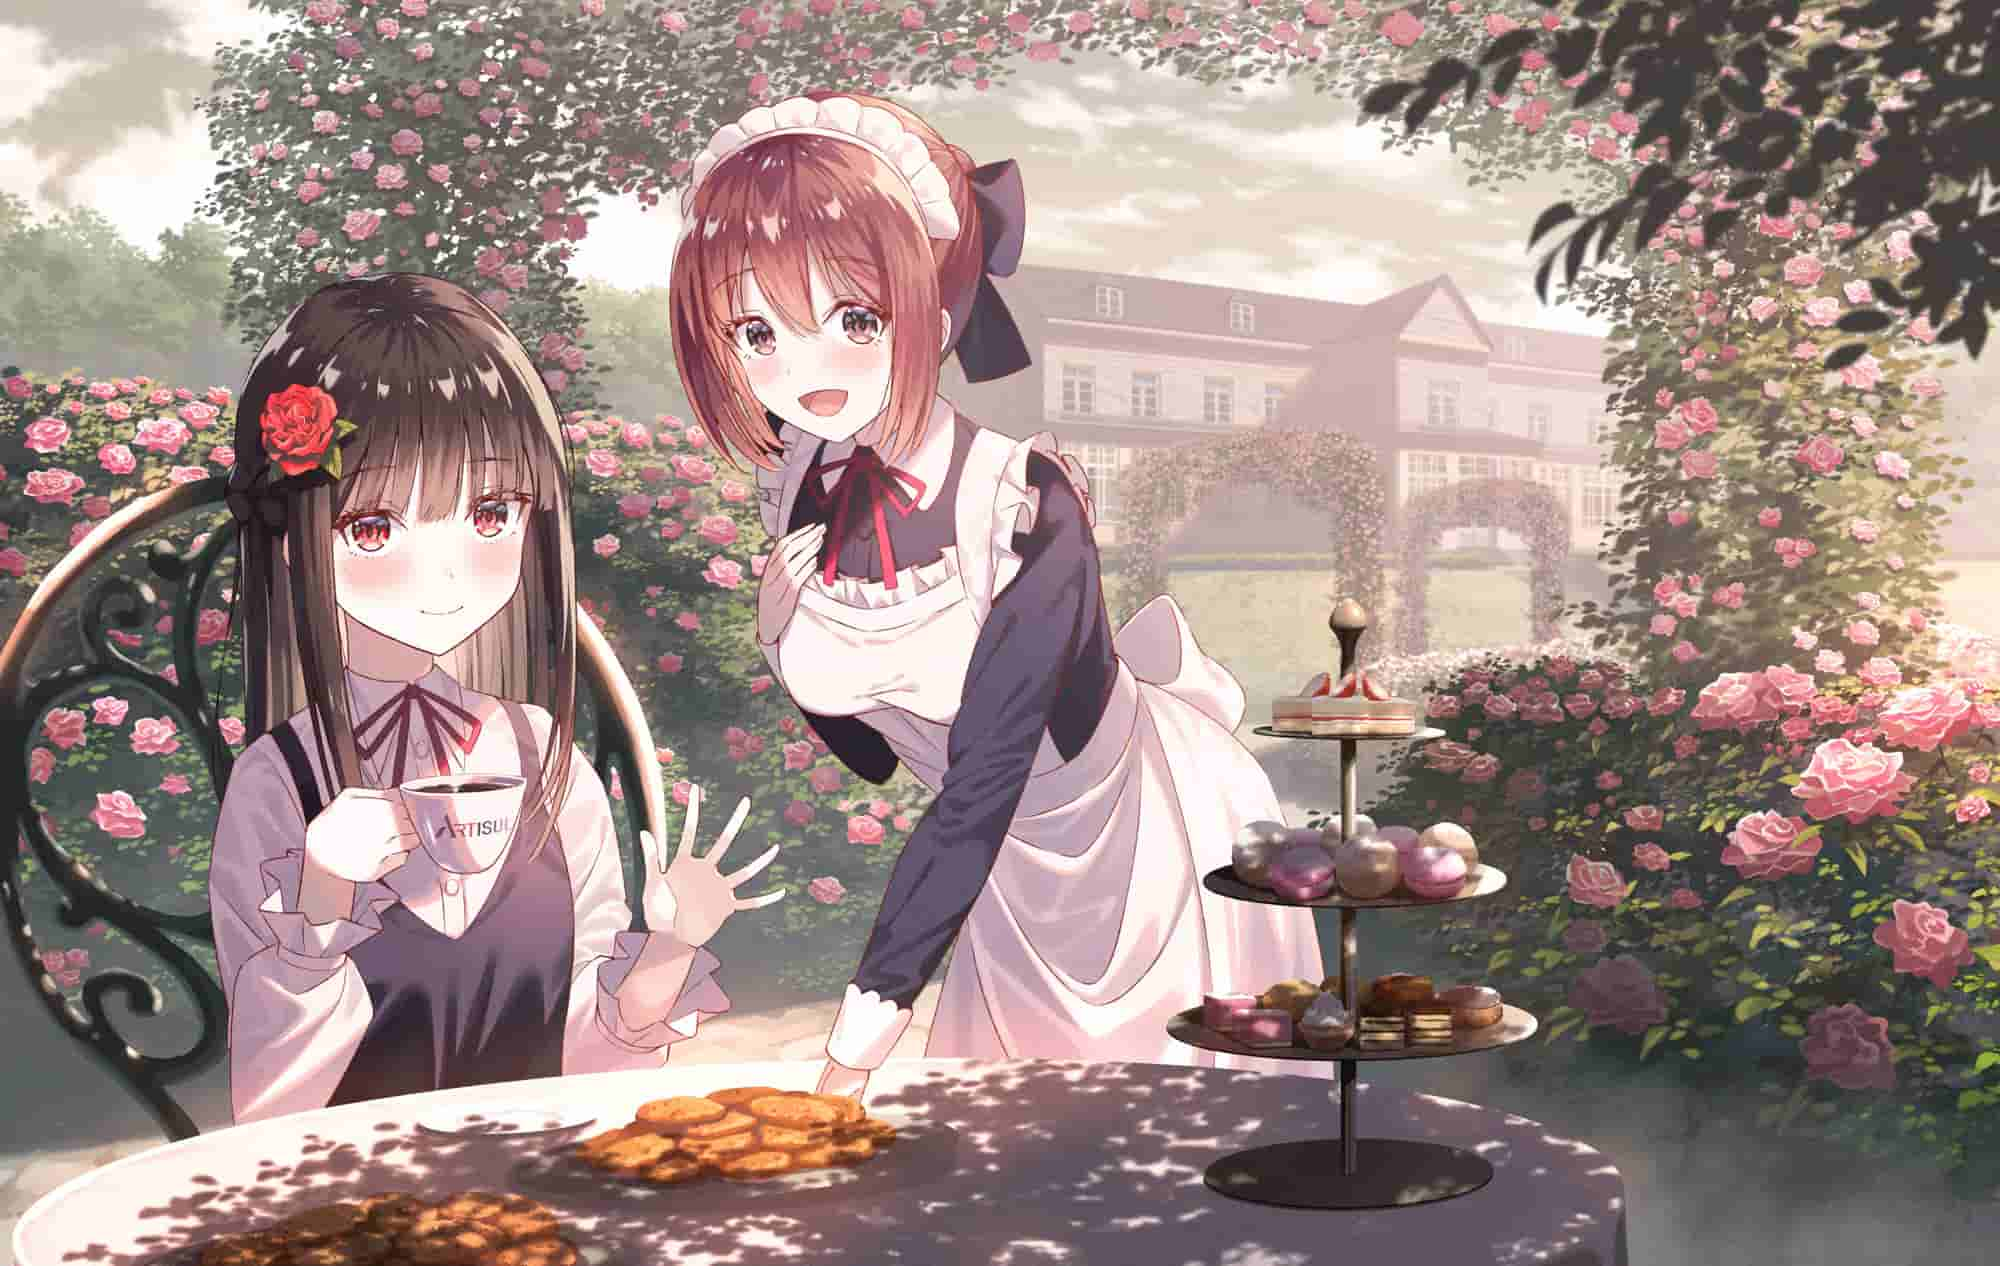
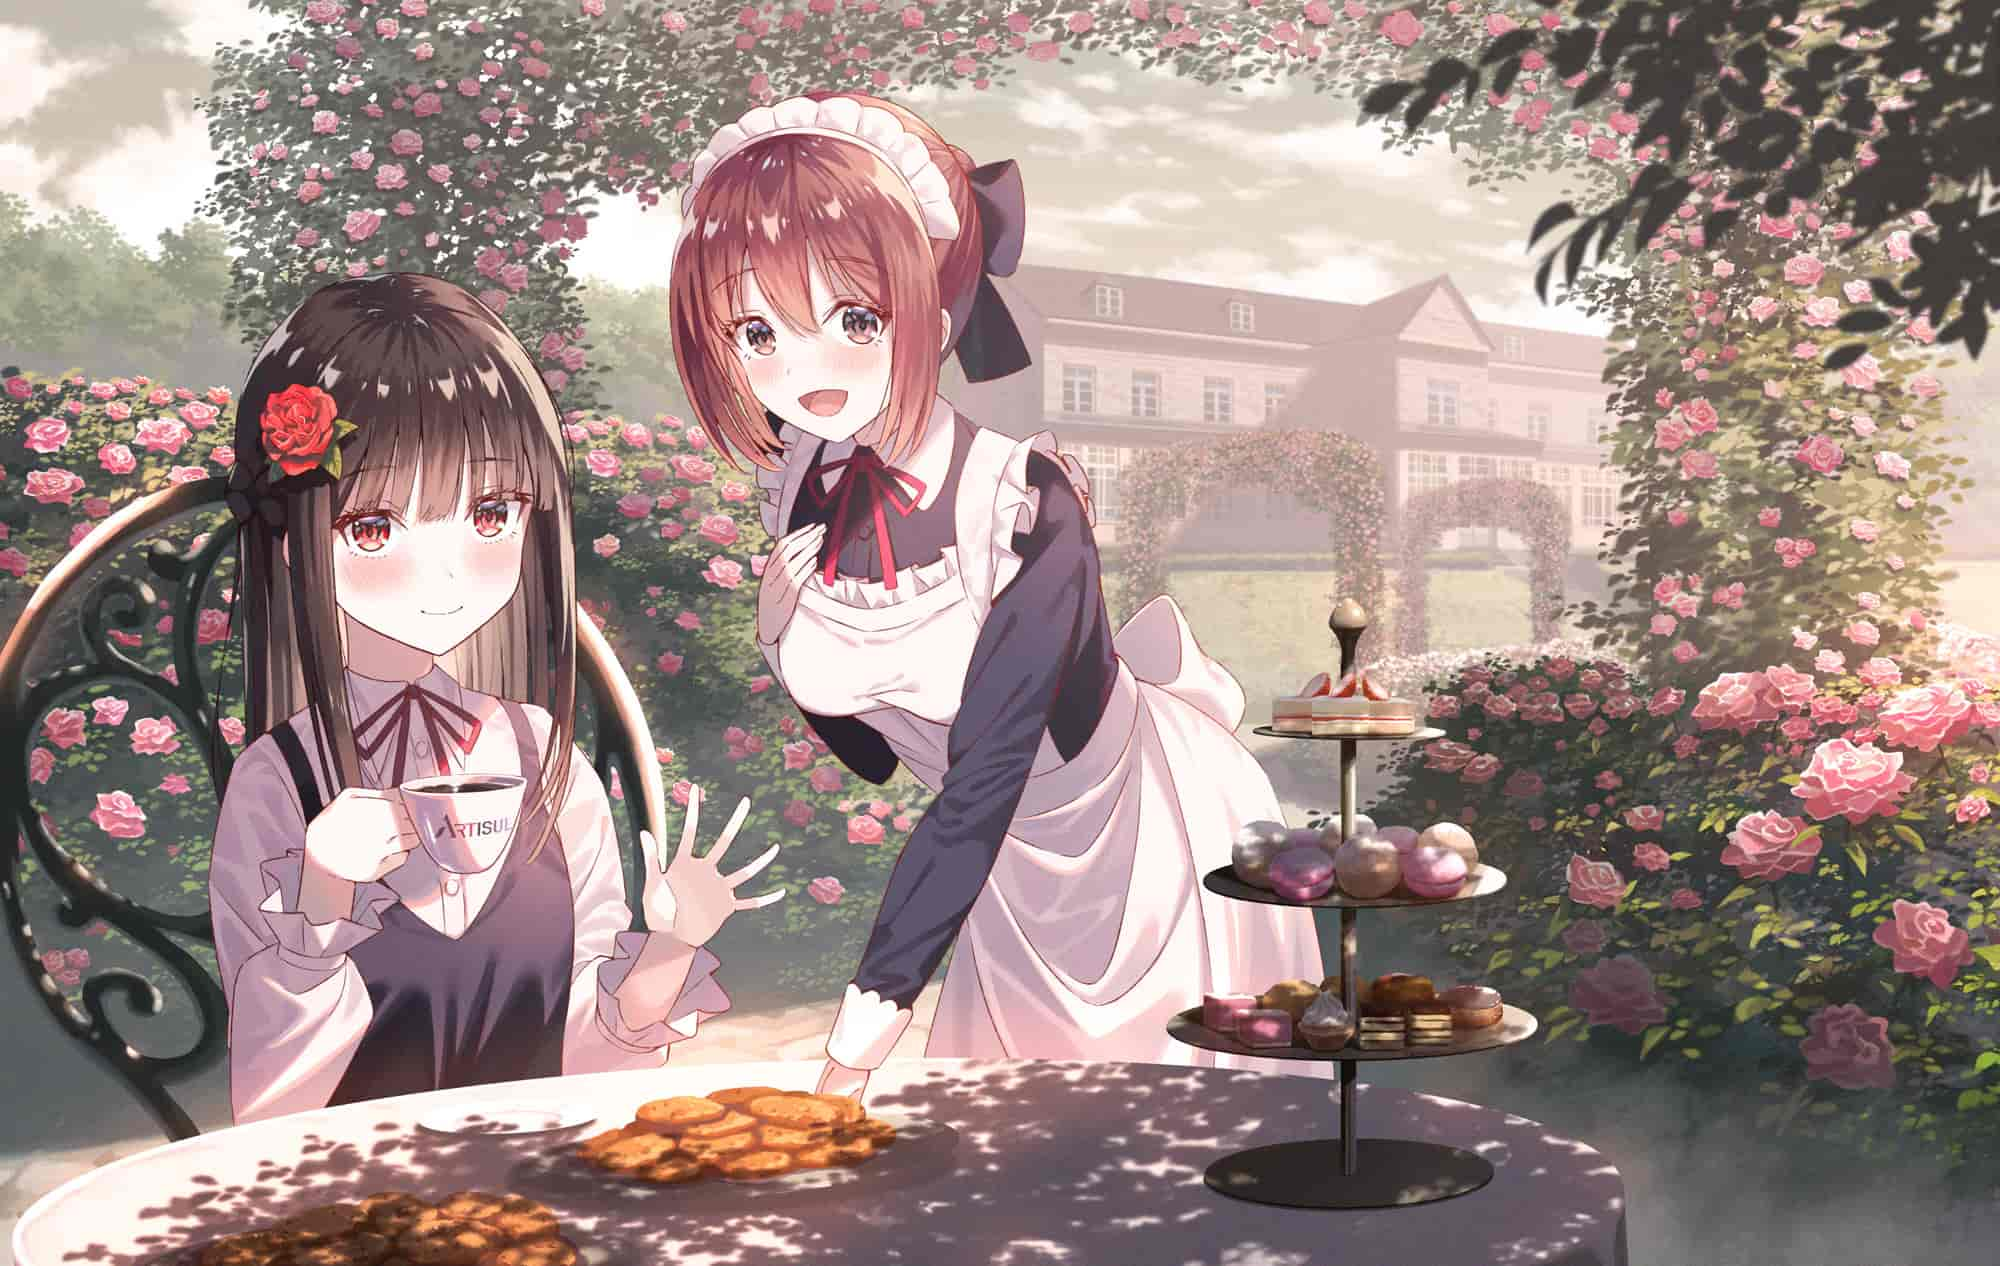
update fix

diff --git a/app/javascript/styles/transparent-coffee.scss b/app/javascript/styles/transparent-coffee.scss
@@ -10,7 +10,7 @@ $about-page-text: lighten($ui-base-color, 50%);
 $transparent-light:rgba(27, 27, 27, 0.9);
 $transparent-dark:rgba(17, 17, 17, 0.9);
 
-$background-image: url("images/transparent/bg-coffee.jpg");
+$background-image: url("images/transparent/bg-tea.jpg");
 $link-background-color: rgb(166, 125, 111);
 
 @import 'application';
